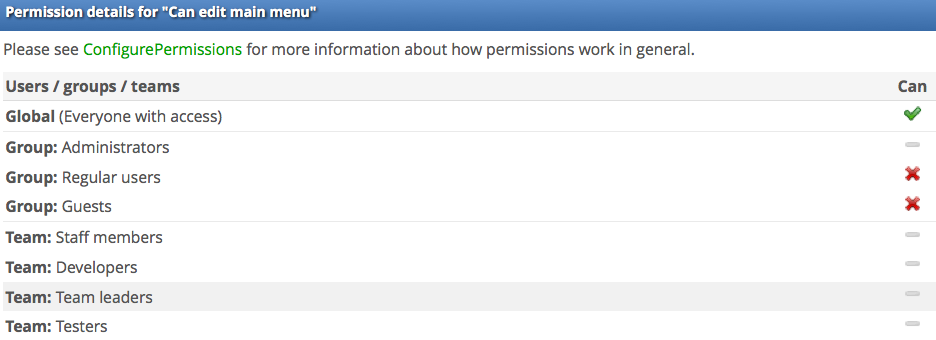
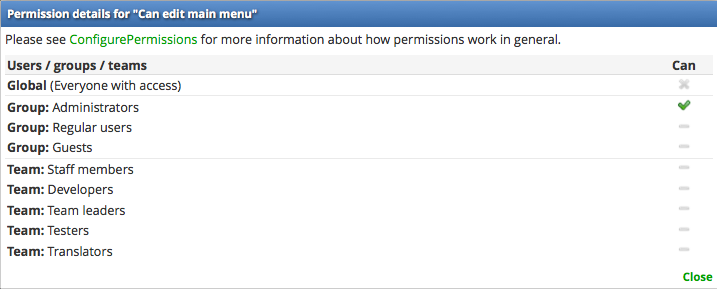
Update permissions

diff --git a/TGBpermissions.md b/TGBpermissions.md
@@ -5,10 +5,10 @@
   1. [DEFAULT] 1a Can search for issues
   ![alt 1a Can search for issues ](https://raw.githubusercontent.com/HelpGiveThanks/HGTconfiguration/master/images/1a Can search for issues.png)
 
-  1. 1b Can create saved searches that are public
-  ![alt 1b Can create saved searches that are public ](https://raw.githubusercontent.com/HelpGiveThanks/HGTconfiguration/master/images/1bCan create saved searches that are public.png)
+  1. [DEFAULT] 1b Can create saved searches that are public
+  ![alt 1b Can create saved searches that are public ](https://raw.githubusercontent.com/HelpGiveThanks/HGTconfiguration/master/images/1b Can create saved searches that are public.png)
 
-1. Can edit main menu
+1. [DEFAULT] Can edit main menu
   ![alt 2 Can edit main menu ](https://raw.githubusercontent.com/HelpGiveThanks/HGTconfiguration/master/images/2 Can edit main menu.png)
 
 1. Can see issues reported by other users
